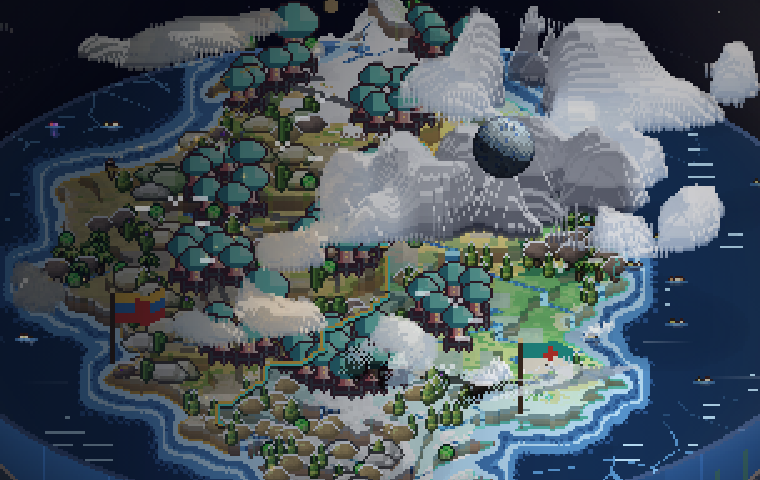
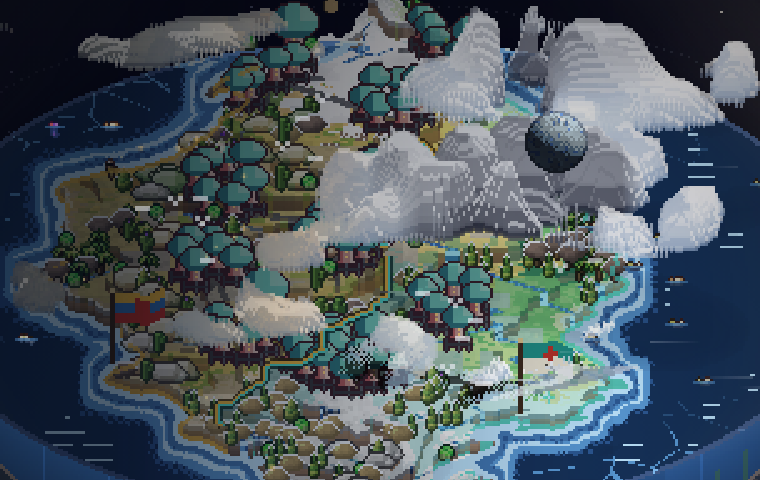
Bolder nation borders: coloured band with a dark rim, thicker coasts and tint
Claude-Session: https://claude.ai/code/session_01UhVnNARxeUpqcod42roTcV

diff --git a/src/rendering/IsoDioramaRenderer.ts b/src/rendering/IsoDioramaRenderer.ts
@@ -2757,34 +2757,41 @@ export class IsoDioramaRenderer {
       om[p] = id <= 0 || occ[p] === 1 ? -2 : own[id - 1];
     }
     const meets = (o: number, q: number) => q >= 0 && q !== o;
-    const wide = eng.activeCamera.zoom >= 2;
+    // Frontier band: `reach` px each side of the line, its own colour
+    // inside and a dark rim on the outer px, so it reads on snow, sand and
+    // forest alike. Wider zoomed in.
+    const reach = eng.activeCamera.zoom >= 2 ? 3 : 2;
+    const foreign = (p: number, x: number, y: number, o: number): number => {
+      for (let s = 1; s <= reach; s++) {
+        if ((x + s < W && meets(o, om[p + s])) || (x >= s && meets(o, om[p - s]))
+          || (y + s < H && meets(o, om[p + s * W])) || (y >= s && meets(o, om[p - s * W]))) return s;
+      }
+      return 0;
+    };
+    const coastal = (p: number, x: number, y: number): boolean => {
+      for (let s = 1; s <= 2; s++) {
+        if ((x + s < W && om[p + s] === -2 && pick[p + s] > 0) || (x >= s && om[p - s] === -2 && pick[p - s] > 0)
+          || (y + s < H && om[p + s * W] === -2 && pick[p + s * W] > 0) || (y >= s && om[p - s * W] === -2 && pick[p - s * W] > 0)) return true;
+      }
+      return false;
+    };
     for (let y = 0; y < H; y++) {
       for (let x = 0; x < W; x++) {
         const p = y * W + x, o = om[p];
         if (o < 0) continue;
         const c = rgb[o], k = p * 4;
-        const r = x + 1 < W ? om[p + 1] : -2, l = x > 0 ? om[p - 1] : -2;
-        const dn = y + 1 < H ? om[p + W] : -2, up = y > 0 ? om[p - W] : -2;
-        // Zoomed in, the frontier is two pixels wide each side (four in all).
-        if (meets(o, r) || meets(o, l) || meets(o, dn) || meets(o, up) || (wide
-          && ((x + 2 < W && meets(o, om[p + 2])) || (x > 1 && meets(o, om[p - 2]))
-          || (y + 2 < H && meets(o, om[p + 2 * W])) || (y > 1 && meets(o, om[p - 2 * W]))))) {
-          // A frontier: the nation's full colour, with a dark pixel under it
-          // so it reads on snow, sand and forest alike.
-          L[k] = c[0]; L[k + 1] = c[1]; L[k + 2] = c[2];
-          L[k + 3] = 255;
-          if (dn >= -1) {
-            const u = k + W * 4;
-            if (L[u + 3] < 255) { L[u] = 24; L[u + 1] = 18; L[u + 2] = 14; L[u + 3] = 200; }
-          }
-        } else if (r === -2 && x + 1 < W && pick[p + 1] > 0 || l === -2 && x > 0 && pick[p - 1] > 0
-          || dn === -2 && y + 1 < H && pick[p + W] > 0 || up === -2 && y > 0 && pick[p - W] > 0) {
-          // The coast of a realm: a solid line in its colour, so a nation alone
-          // on its island still shows whose it is.
-          if (L[k + 3] === 0) { L[k] = c[0]; L[k + 1] = c[1]; L[k + 2] = c[2]; L[k + 3] = 170; }
+        const f = foreign(p, x, y, o);
+        if (f > 0 && f < reach) {
+          L[k] = c[0]; L[k + 1] = c[1]; L[k + 2] = c[2]; L[k + 3] = 255;
+        } else if (f === reach) {
+          L[k] = c[0] >> 2; L[k + 1] = c[1] >> 2; L[k + 2] = c[2] >> 2; L[k + 3] = 220;
+        } else if (coastal(p, x, y)) {
+          // The coast of a realm, in its colour: a nation alone on its
+          // island still shows whose it is.
+          L[k] = c[0]; L[k + 1] = c[1]; L[k + 2] = c[2]; L[k + 3] = 190;
         }
         // Territory tint on the ground.
-        d[k] = c[0]; d[k + 1] = c[1]; d[k + 2] = c[2]; d[k + 3] = 56;
+        d[k] = c[0]; d[k + 1] = c[1]; d[k + 2] = c[2]; d[k + 3] = 72;
       }
     }
     g.putImageData(img, 0, 0);
